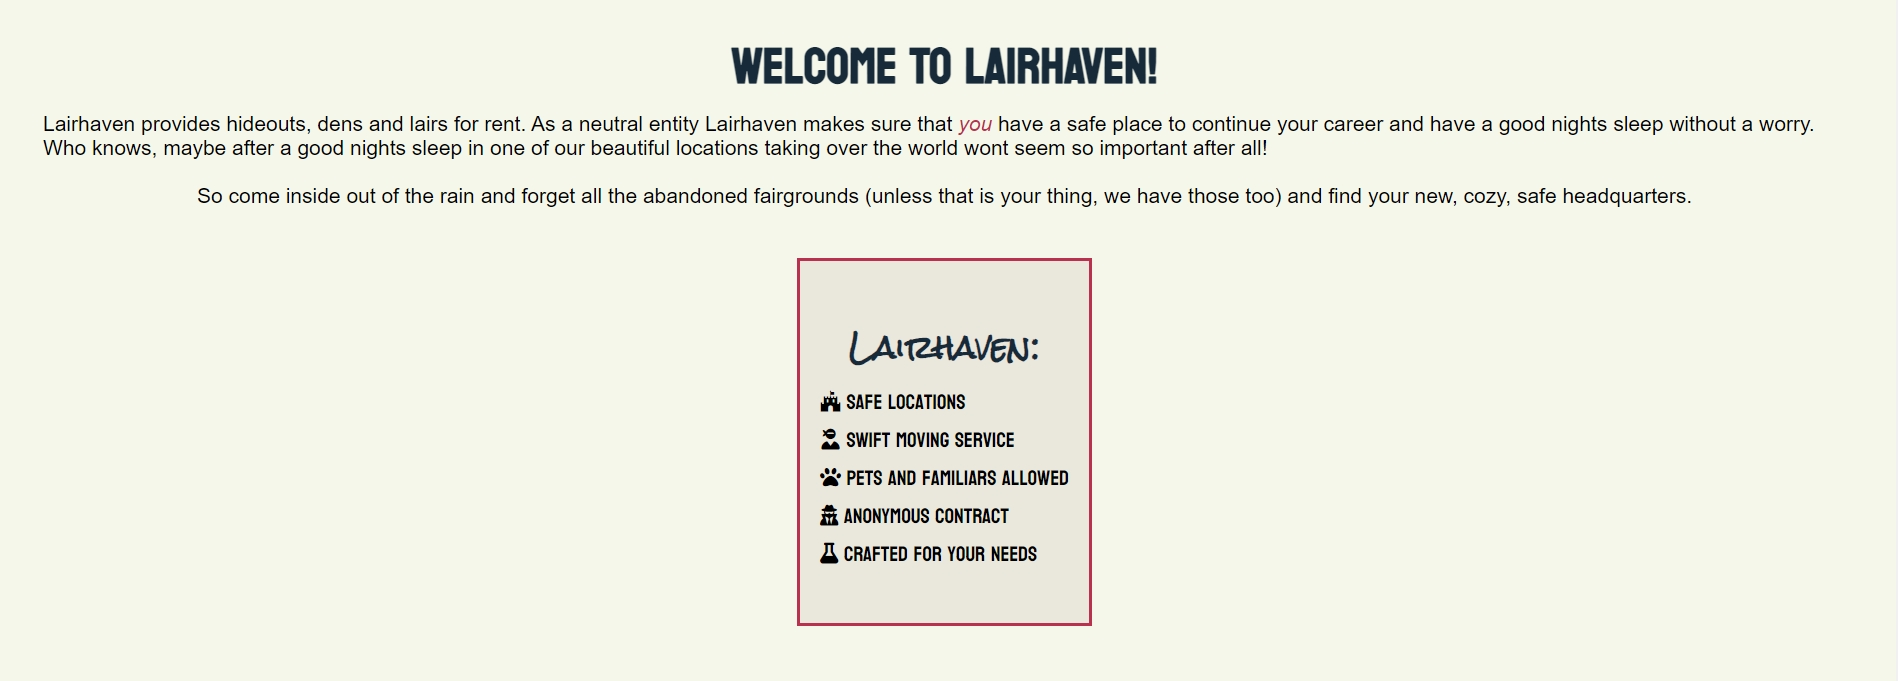
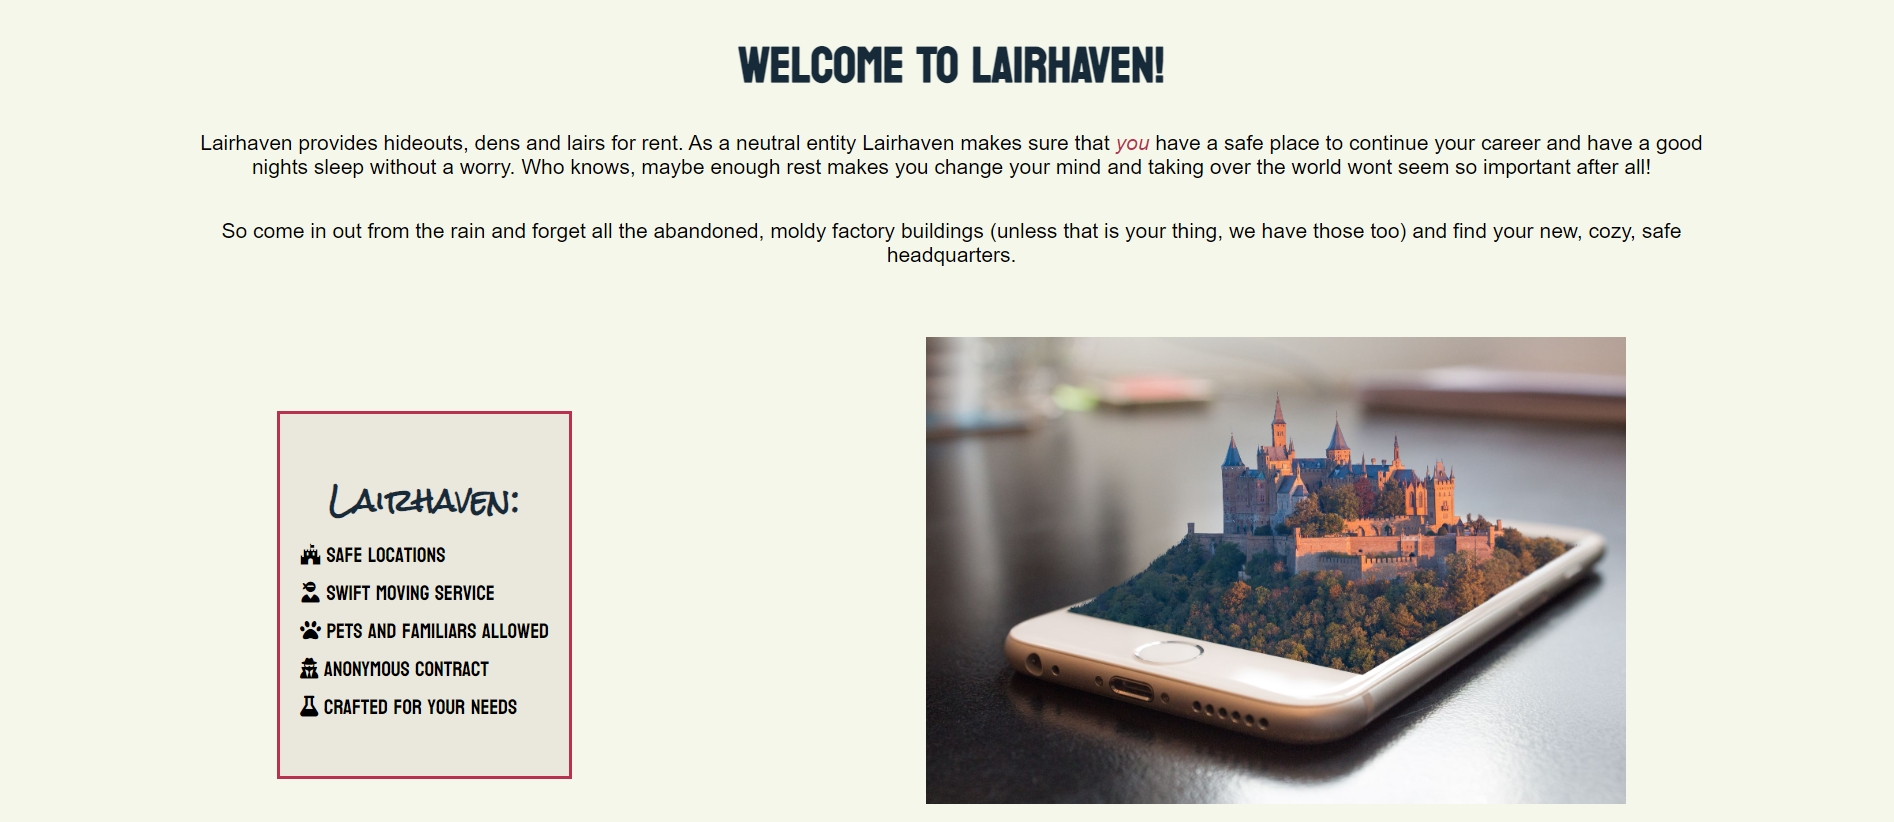
Add: README-file and small changes to the text in site

diff --git a/index.html b/index.html
@@ -57,10 +57,10 @@
                 <h3>Lairhaven:</h3>
                 <ul>
                     <li><i class="fa-brands fa-fort-awesome"></i>
-                         Safe locations
+                        Safe locations
                     </li>
                     <li><i class="fa-solid fa-user-ninja"></i>
-                         Swift moving service
+                        Swift moving service
                     </li>
                     <li><i class="fa-solid fa-paw"></i>
                         Pets and familiars allowed
@@ -164,28 +164,28 @@
                 <p class="important formbox">Which locations interests you:</p>
                 <div class="formcheckbox">
                     <div>
-                        <input id="formlocation1" type="checkbox" name="formlocation" value="location1">
-                        <label for="formlocation1">Object 597: Moody hideout</label>
+                        <input id="moodyhideout" type="checkbox" name="formlocation" value="location1">
+                        <label for="moodyhideout">Object 597: Moody hideout</label>
                     </div>
                     <div>
-                        <input id="formlocation2" type="checkbox" name="formlocation" value="location2">
-                        <label for="formlocation2">Object 253: Location with tech spirit</label>
+                        <input id="techlocation" type="checkbox" name="formlocation" value="location2">
+                        <label for="techlocation">Object 253: Location with tech spirit</label>
                     </div>
                     <div>
-                        <input id="formlocation3" type="checkbox" name="formlocation" value="location3">
-                        <label for="formlocation3">Object 108: Hideout with charm</label>
+                        <input id="charmyhideout" type="checkbox" name="formlocation" value="location3">
+                        <label for="charmyhideout">Object 108: Hideout with charm</label>
                     </div>
                     <div>
-                        <input id="formlocation4" type="checkbox" name="formlocation" value="location4">
-                        <label for="formlocation4">Object 34: Away castle</label>
+                        <input id="awaycastle" type="checkbox" name="formlocation" value="location4">
+                        <label for="awaycastle">Object 34: Away castle</label>
                     </div>
                     <div>
-                        <input id="formlocation5" type="checkbox" name="formlocation" value="location5">
-                        <label for="formlocation5">Object 213: Clean slate</label>
+                        <input id="emptyroom" type="checkbox" name="formlocation" value="location5">
+                        <label for="emptyroom">Object 213: Clean slate</label>
                     </div>
                     <div>
-                        <input id="formlocation6" type="checkbox" name="formlocation" value="location6">
-                        <label for="formlocation6">Object 412: Cave</label>
+                        <input id="justcave" type="checkbox" name="formlocation" value="location6">
+                        <label for="justcave">Object 412: Cave</label>
                     </div><br>
                 </div>
                 <div class="formboxcenter important">
@@ -208,11 +208,14 @@
                     <input class="button" type="submit" value="Join us!">
                 </div>
 
-                <p class="smallprint">Lairhaven will not take any responsibility over locations after contract is
-                    signed. In case the hideout is
-                    found out by opposing faculty, client gets caught or is otherwise unable to pay their monthly
-                    fee it
-                    will be collected some other way. Most likely by ninjas. </p>
+                <p class="smallprint">
+                    After you have submitted your application our customer vare will be in contact with you within next
+                    24 hours. <br>
+                    Lairhaven will not take any responsibility over locations after contract is
+                    signed.<br>
+                    In case the hideout is found out by opposing faculty, client gets caught or is otherwise unable to pay their monthly
+                    fee it will be collected some other way. <br>
+                    Most likely by ninjas. </p>
 
             </form>
         </section>

diff --git a/README.md b/README.md
@@ -9,36 +9,34 @@ As a bonus this company does the hideout stylings to match the customers brand a
 
 ![lairhaven](assets/images/lairhaven-screen.jpeg "Lairhaven-webpage on different screen")
 
-## Design points
+## Design Strategy
 Design point: mobile-first.
 - All the information can be found from one page 
 - Goal is to make everything as flexible as possible
 - Minimum amount of code changes between different viewports
+- Colors are chosen to be calm and harmonic. 
+- Header is dark and menacing, to get the attention of villains (even if company is neutral)
 
 ### User goals:
 What is their goal? What problem does this product or feature solve for them?
 - User needs to find a safe lair. As a bonus this company does the styling and moving for them too.
 
-		
 What are some of the actions or operations they are likely to perform?
+- Showing a collection of different locations
+- Renting out location
 - Styling of location
-- Moving in (secretly, with ninjas)
+- Moving in/out (secretly, with ninjas)
 - Customer care (24/7, because evil never sleeps)
 
 ### User Stories:
-- As a user, I need to be able to easily see what website offers
-- As a user, I need to be able to contact the company
+
+New user:
+- As a new user, I need to be able to easily see what website offers
 - As a user, I want to know more about the company
-- As a user, I need the company to be reachable
+- As a user, I want to rent a location
 
-
-## Design Choices
-- Colors are chosen to be calm and harmonic. 
-- Header is dark and menacing, to get the attention of villains (even if company is neutral)
-
-### My personal goals
-- To make writing commit messages a habit
-- Problem solving by testing different options
+Returning user:
+- As a returning user, I want to contact the customer care
 
 
 # Features
@@ -108,6 +106,19 @@ What are some of the actions or operations they are likely to perform?
 
  # TESTING
 
+ ## User stories
+###New user:
+####As a new user, I need to be able to easily see what website offers
+     -
+
+- As a user, I want to know more about the company
+- As a user, I want to rent a location
+
+Returning user:
+- As a returning user, I want to contact the customer care
+
+
+## Validating HTML 5 and CSS 3
  - Tested with The W3C CSS Validation service. Congratulations! No Error Found.
  - Tested with nu HTML checker, all three pages. No errors or warnings to show.
  - Tested with Google Chrome developer tool Lighthouse to find any remaining errors and to make page more accessible. 
@@ -150,18 +161,18 @@ Also in wide screen (over 1900px wide) the pictures become four in a row. Trying
 
 
 
-## CREDITS
+# CREDITS
 
-### People:
+## People:
 - Thank you to my very helpful mentor, [Simen Daehlin](https://github.com/Eventyret/eventyret). He has given me a lot of good pointers on what I should do and how to improve my coding.
 
-### Media:
+## Media:
 - Photos are open source from [Pxhere](https://pxhere.com/)
 
-### Icons
+## Icons
 - All the icons were taken from [Font Awesome](https://fontawesome.com/)
 
-### Codes from other sources:
+## Codes from other sources:
 
 - Code for Sticky Navbar from [W3schools tutorial](https://www.w3schools.com/howto/howto_js_navbar_sticky.asp)
 ```
@@ -189,3 +200,5 @@ Also in wide screen (over 1900px wide) the pictures become four in a row. Trying
     top: 0;
     width: 100%;
 ```
+
+## Thank you for reading!
